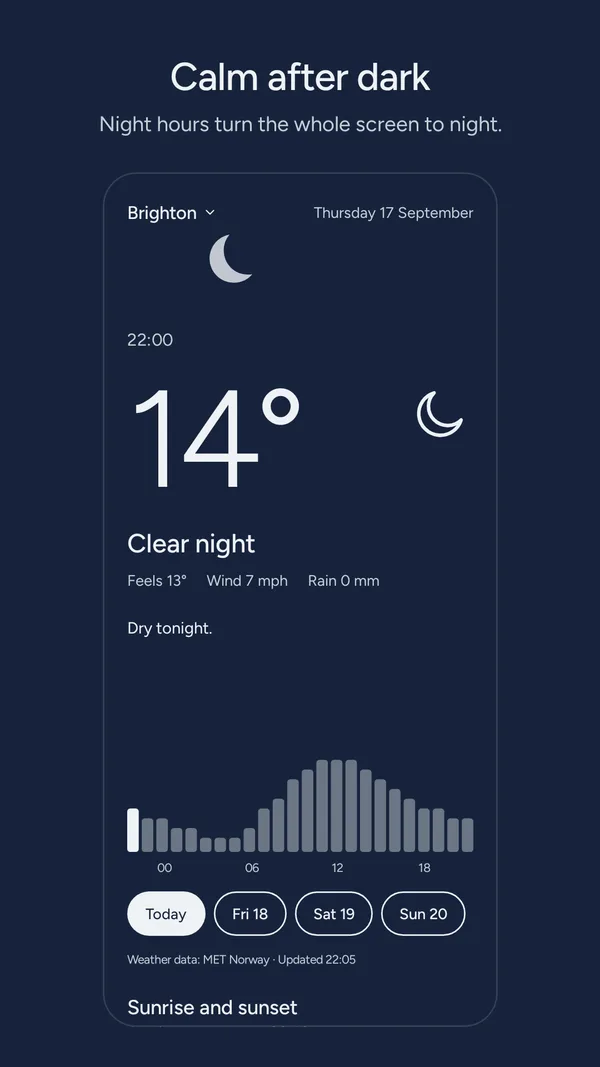
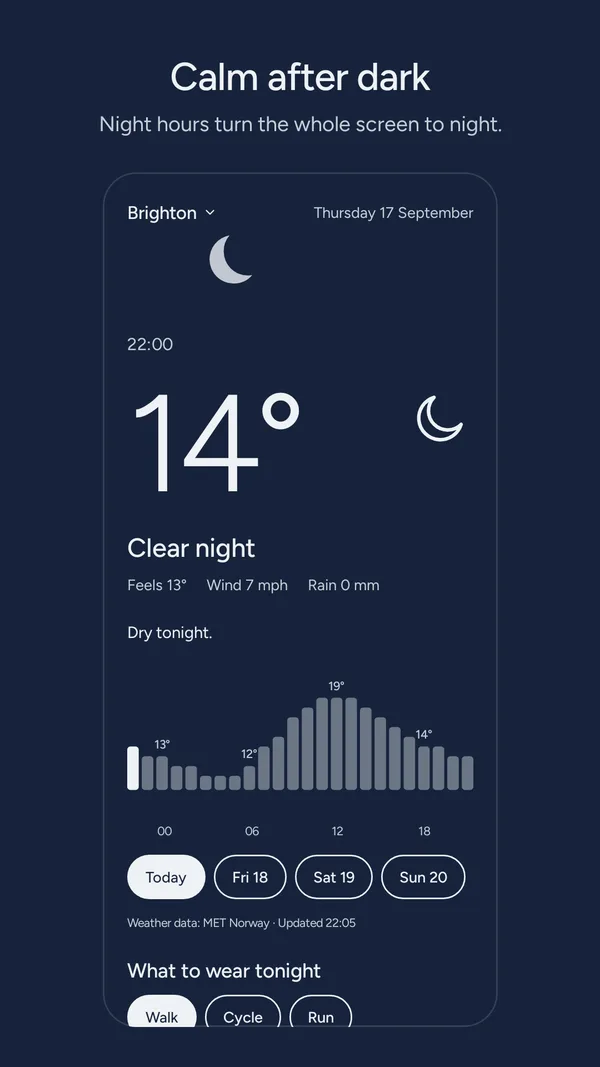
Always Weather: one forecast on every screen, and fresh screenshots
- A platforms section after the screenshots: each store's laptop beside
  its phone. App Store: Mac (Sky after dark) and iPhone (Paper), one
  purchase; Google Play: Googlebook (Paper) and Android phone (Sky). The
  screens are the apps' own render tests, without store captions, made by
  tools/make-weather-assets.sh like the rest, never by hand.
- The three hero shots re-pulled from the 1.0.2 store screenshots
  (always_weather #146).
- JSON-LD lists the four platform screenshots.

Held until 1.0.2 is live everywhere: the screens show 1.0.2 features, and
Googlebook support goes public only with Android 1.0.1 (#7 merges first).

diff --git a/weather/index.html b/weather/index.html
@@ -37,6 +37,12 @@
   "operatingSystem": "iOS, macOS, Android",
   "applicationCategory": "WeatherApplication",
   "author": {"@type": "Organization", "name": "Empatiq Limited"},
+  "screenshot": [
+    "https://guzh.uk/assets/weather/platform-mac.webp",
+    "https://guzh.uk/assets/weather/platform-iphone.webp",
+    "https://guzh.uk/assets/weather/platform-googlebook.webp",
+    "https://guzh.uk/assets/weather/platform-android.webp"
+  ],
   "offers": [
     {
       "@type": "Offer",
@@ -270,6 +276,24 @@ a.pill:focus-visible{outline:2px solid var(--accent);outline-offset:3px}
   border-radius:8px;box-shadow:var(--shot-shadow);
 }
 
+/* ---------- platforms: each store's laptop beside its phone ---------- */
+.platforms{margin-top:112px;display:flex;flex-direction:column;gap:20px}
+.platforms h2{margin:0;font-size:30px;font-weight:500;letter-spacing:-.015em;line-height:1.2;color:var(--ink)}
+.platform-row{
+  display:grid;grid-template-columns:minmax(0,3fr) minmax(0,1fr);
+  gap:28px;align-items:end;margin-top:36px;
+}
+.platform-store{grid-column:1/-1;display:flex;align-items:baseline;gap:14px;flex-wrap:wrap}
+.device{margin:0;display:flex;flex-direction:column;gap:12px}
+.device img{
+  display:block;width:100%;height:auto;
+  border-radius:10px;border:1px solid var(--rule);box-shadow:var(--shot-shadow);
+}
+.device-laptop img{aspect-ratio:var(--ratio)}
+.device-phone img{aspect-ratio:9/19.5;border-radius:18px}
+.device figcaption{font-size:13.5px;color:var(--ink-3);line-height:1.5}
+.device figcaption strong{color:var(--ink);font-weight:500}
+
 /* ---------- numbers ---------- */
 .numbers{
   display:grid;grid-template-columns:repeat(4,minmax(0,1fr));
@@ -361,6 +385,8 @@ a.pill:focus-visible{outline:2px solid var(--accent);outline-offset:3px}
 
 /* ---------- responsive ---------- */
 @media (max-width:860px){
+  .platform-row{grid-template-columns:minmax(0,1fr);gap:24px}
+  .device-phone{max-width:240px}
   .wrap{padding-left:24px;padding-right:24px}
   .masthead{padding-bottom:64px}
   /* one thumb again: the shots become a snapping strip that bleeds to both edges,
@@ -450,6 +476,45 @@ a.pill:focus-visible{outline:2px solid var(--accent);outline-offset:3px}
         <img src="/assets/weather/shot-night.webp" width="600" height="1067" loading="lazy" decoding="async"
              alt="Brighton at 22:00: clear night, 14 degrees, on a dark night-blue screen. The summary reads “Dry tonight.” Below it sit the hourly bars and a “Sunrise and sunset” heading.">
       </figure>
+    </section>
+
+    <section class="platforms" aria-labelledby="platforms-heading">
+      <h2 id="platforms-heading">One forecast, on every screen you have</h2>
+      <p class="body-copy">The same forecast, the same words and the same one-thumb sweep through the hours, wherever you open it. On a wide screen the hour you're looking at sits beside sunrise, what to wear and the days ahead.</p>
+
+      <div class="platform-row">
+        <div class="platform-store">
+          <a class="pill" href="https://apps.apple.com/gb/app/always-weather/id6817032365">App Store</a>
+          <span class="availability-note">iPhone and Mac, one purchase</span>
+        </div>
+        <figure class="device device-laptop" style="--ratio:4/3">
+          <img src="/assets/weather/platform-mac.webp" width="1400" height="1050" loading="lazy" decoding="async"
+               alt="The Mac app in Sky at night: London at 20:00, 16 degrees and clear, the hourly bars on the left, and What to wear, sunrise and sunset and the nine-day forecast on the right.">
+          <figcaption><strong>Mac</strong> · Sky, after dark</figcaption>
+        </figure>
+        <figure class="device device-phone">
+          <img src="/assets/weather/platform-iphone.webp" width="520" height="1127" loading="lazy" decoding="async"
+               alt="The iPhone app in Paper: London, &ldquo;Rain from 13:00, clearing by 16:00&rdquo;, 16 degrees, a dotted temperature line over the day with rain bars at lunchtime.">
+          <figcaption><strong>iPhone</strong> · Paper</figcaption>
+        </figure>
+      </div>
+
+      <div class="platform-row">
+        <div class="platform-store">
+          <a class="pill" href="https://play.google.com/store/apps/details?id=com.empatiq.weather">Google Play</a>
+          <span class="availability-note">Android phones and Googlebooks</span>
+        </div>
+        <figure class="device device-laptop" style="--ratio:16/10">
+          <img src="/assets/weather/platform-googlebook.webp" width="1400" height="875" loading="lazy" decoding="async"
+               alt="The app on a Googlebook in Paper: the day's sentence, the hours and the days on the left, and What to wear and sunrise and sunset on the right.">
+          <figcaption><strong>Googlebook</strong> · Paper</figcaption>
+        </figure>
+        <figure class="device device-phone">
+          <img src="/assets/weather/platform-android.webp" width="520" height="1125" loading="lazy" decoding="async"
+               alt="The Android app in Sky: London at 14:00, 16 degrees and rain, on a grey-blue screen with clouds, above the hourly bars.">
+          <figcaption><strong>Android phone</strong> · Sky</figcaption>
+        </figure>
+      </div>
     </section>
 
     <section class="numbers" aria-label="What you get">
